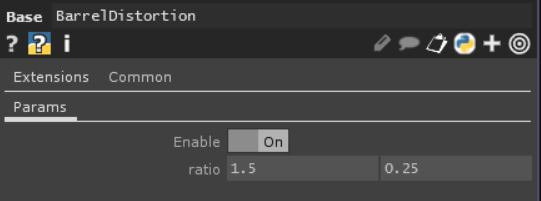
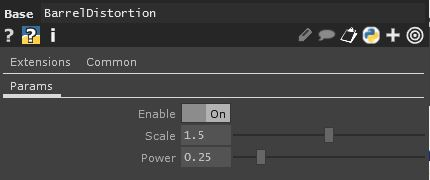
Update Barrel Distortion

diff --git a/PostEffects/BarrelDistortion/README.md b/PostEffects/BarrelDistortion/README.md
@@ -6,17 +6,15 @@
 ## Shader Code
 
 ```glsl
-uniform float s1;
-uniform float s2;
+uniform float scale;
+uniform float power;
 out vec4 fragColor;
 
 void main()
 {
-    vec2 uv = vUV.st;
     vec2 center = 2.0* vUV.st - vec2(1.0);
-
-    float barrel = min(1.0 - length(center)*s1, 1.0) * s2;
-    vec2 pos = uv - center * barrel;
+    float barrel = min(1.0 - length(center)*scale, 1.0) * power;
+    vec2 pos = vUV.st - center * barrel;
 
     vec4 color = texture(sTD2DInputs[0], pos);
     fragColor = TDOutputSwizzle(color);
